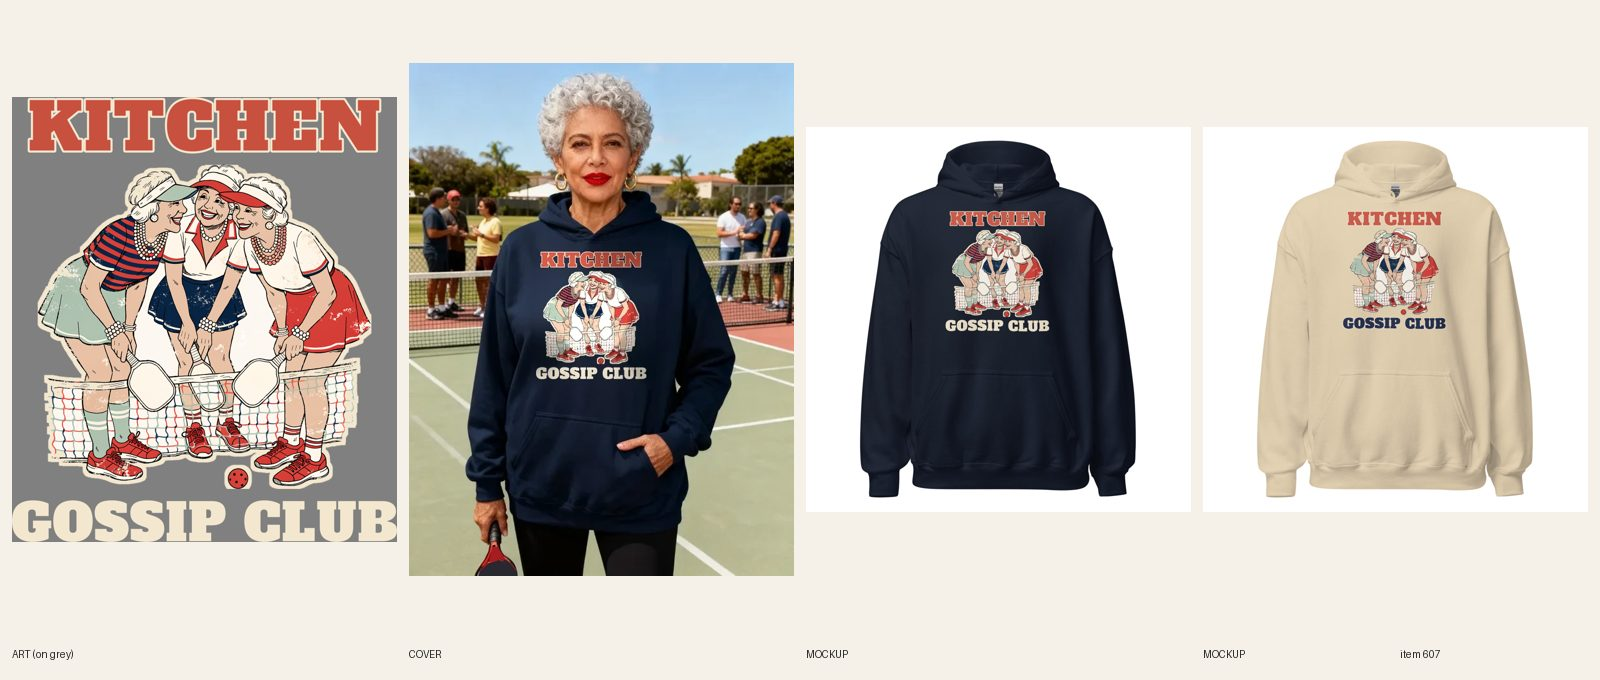
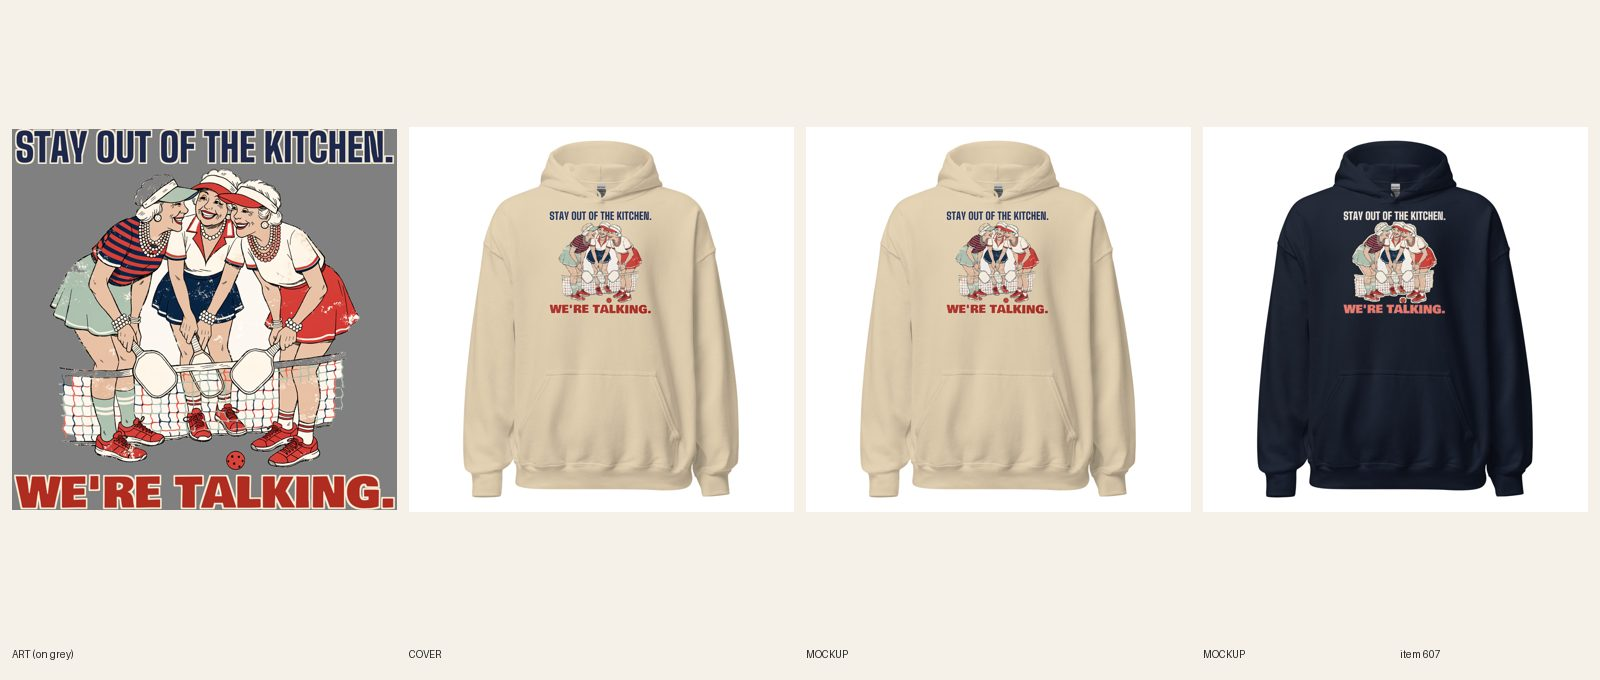
[C] review 607 (redo)
Claude-Session: https://claude.ai/code/session_01CCHcDj8LcJJ8qUPtKE3cvn

diff --git a/designs/c607/make.py b/designs/c607/make.py
@@ -1,0 +1,11 @@
+import sys; sys.path.insert(0,'.')
+from designs.lib import *
+def getart(src,y0,y1):
+    im=Image.open(src).convert('RGBA'); a=im.crop((0,y0,im.width,y1)); a=a.crop(a.getbbox()); return a.resize((int(a.width*0.94),int(a.height*0.94)),Image.LANCZOS)
+ARTS={'sand':getart('docs/print-files/607-pickleball-hoodie-sand.png',558,3356),'navy':getart('docs/print-files/607-pickleball-hoodie-navy.png',586,3384)}
+W=3359
+NAVY=(30,40,76,255); RED=(206,70,52,255); DRED=(176,44,32,255)
+for tag,c1,k1,c2,k2,bg in (('sand',NAVY,CREAM,DRED,CREAM,(214,196,160,255)),('navy',CREAM,NAVY,(244,120,100,255),NAVY,(38,50,88,255))):
+    h1=line("STAY OUT OF THE KITCHEN.",'big',0.985,W,c1,k1,kw=27); h2=line("WE'RE TALKING.",'bowlby',0.985,W,c2,k2,kw=29)
+    print(tag,'headline px',h1.width,'punch px',h2.width,'heights',h1.height,h2.height,'art',ARTS[tag].size)
+    art=ARTS[tag]; out=lockup(art,W,[h1],[h2],f'607-v2-talking-{tag}',{tag:bg}); print(out.size,out.height/out.width)

diff --git a/docs/pipeline/607-pickleball-hoodie-kitchen-gossip-club.md b/docs/pipeline/607-pickleball-hoodie-kitchen-gossip-club.md
@@ -1,4 +1,4 @@
-status: BUILDING [C] 2026-10-20 09:52
+status: REVIEW
 shopify: gid://shopify/Product/15364905238832
 lane: C
 type: new
@@ -35,3 +35,4 @@ kd: 38
 - 2026-10-18 09:10 UTC builder [C]: REDO done without fal (cap reached): cover racket repainted as a solid-face graphite paddle with red rim (throat and string bed filled, checked at 500% crop, hand/grip unchanged), cover file replaced in place; docs/review/607.jpg remade. fal \$0.
 - 2026-10-18 09:22 UTC director: LIVE. approved from docs/review/607.jpg (REDO fixed: cover paddle is a solid pickleball paddle at her side). ACTIVE + Online Store/Headless/Google & YouTube, audit --handle PASS (0 warn).
 - 2026-10-18 17:22 UTC director: QUALITY RESET grade C (new line + type), REDO. The product stays ACTIVE (same handle, URL, title keyword). 1. Line (R3.12, quality-reset 'Lines'): "Kitchen / Gossip Club": Pickleball insider pun (kitchen) that mostly describes the picture. Write 5 candidates, keep the one a stranger laughs at in 3 seconds without backstory; kill lines that only describe the picture; if none of the 5 is funny, PARK it. 2. Quality reset type bar (docs/backlog/quality-reset.md, 'The new bar'): headline at least 90% of the art width, heavy, colors pulled from the art; second line at least 45% of the headline's height, never a thin script on a dark or mid garment; use the lettering as a shape (arch, stacked lockup, words breaking into the art), not a plain bar above and a script line below; no font used on more than 1 in 6 of the last 30 designs. 3. Keep the art if it carries the new line, else one new illustration (R4/R5). New print means a new cover per R6.10, copy line one rewritten for the new joke (R8.3), and a fresh review sheet (R7.7). While quality-reset.md says PAUSED, only lane A builds, and only the samples step 2 names.
+- 2026-10-20 09:58 UTC builder [C]: REDO new line + type (grade C; title card 7i done). 5 candidates, compared with Plot Twist: I Stayed In, Oops. Anyway. and Politely, No.: "STAY OUT OF THE KITCHEN. / WE'RE TALKING." (kept: the pickleball rule turned into a gossip alibi; the huddle over the net is the proof, and a non-player still gets the first line), "KITCHEN GOSSIP CLUB" (old insider pun), "WE CAME TO PLAY. WE STAYED TO TALK.", "SERVE. SIP. REPEAT.", "THE REAL GAME IS AT THE NET". Same three-friends art at 94% (each color keeps its own art file: the Navy art has the cream keyline). Measured ink widths (card 7h): headline STAY OUT OF THE KITCHEN. 3305 px / punch WE'RE TALKING. 3322 px (100.5%; punch also taller, 312 vs 308 px). Big Shoulders Display Black headline, Bowlby One punch. Light-file (R5.3.8): Sand file 1090287555 (headline navy with a cream keyline, punch dark red), Navy file 1090287613 (headline cream with a navy keyline, punch coral); docs/print-files/607-v2-talking-sand.png / -navy.png; print 3359 x 3322, FW 1500 TOP 0 (about 1,480 px), 12/12 relinked (verified on the API). 2 fronts replaced in place, read at phone size (the long first line is the smaller of the two; it still reads). Title set to "Women's Pickleball – Stay Out of the Kitchen, We're Talking Hoodie" (handle unchanged); copy, FAQ and SEO rewritten. Handle in retired-covers.json. Plain product shot. fal $0.

diff --git a/docs/intake-log.md b/docs/intake-log.md
@@ -25,6 +25,7 @@ RUNNING lane B since 2026-10-20 09:02 UTC
 2026-10-20 07:44 UTC — [B] Builder run: REDO round 3 of #455 Unisex Hanukkah Lost My Gelt crewneck (dreidel face marks painted out, Navy file 1090236634 + Sport Grey file 1090236680, FW 1650 TOP 0, 12/12 relinked, 2 fronts replaced in place) and #469 Women's Christmas embroidered crewneck (new line BOOKED / THROUGH JANUARY., headline 2197 / punch 2197 px, Sand file 1090237592 + Navy file 1090237605, 12/12 synced, title/SEO/copy/alts updated). Both REVIEW. #498 left for director (R3.14 note). fal $0.
 2026-10-20 08:00 UTC — [E] Builder run: redid #608 Women's Pickleball tee (line + type: POLITE SMILE. / PERSONAL VENDETTA., same serene-lady art, Bevan, dark-ink file on 5 light colors, 30/30 synced). REVIEW. fal $0.
 RUNNING lane C since 2026-10-20 07:00 UTC
+2026-10-20 09:58 UTC — [C] Builder run: redid #607 Women's Pickleball hoodie (new line + type: STAY OUT OF THE KITCHEN. / WE'RE TALKING., headline 3305 px / punch 3322 px, Big Shoulders + Bowlby, same three-friends art, Sand file 1090287555 + Navy file 1090287613, FW 1500 TOP 0, 12/12 relinked, 2 fronts replaced in place, title + copy + SEO updated). REVIEW. fal $0.
 2026-10-20 09:52 UTC — [C] Builder run: redid #626 Women's Softball Mom zip hoodie (twin of #535: TRAVEL BALL: / PAY TO SUNBURN., new camp-chair art, Ash file 1090285645 + Navy file 1090285675, chest 1090285470, BW 1650 BT 225, 12/12 relinked, back mockups replaced, title + copy + SEO updated). REVIEW. fal $0.
 2026-10-20 09:46 UTC — [C] Builder run: redid #571 Women's Teacher zip hoodie (new line + type: IT'S RAINING. / SEND COFFEE., headline 2980 px / punch 3042 px, Big Shoulders + Bowlby, same apple art, Ash file 1090283743 + Navy file 1090283769, BW 1650 BT 225, 12/12 relinked, back mockups replaced, title + copy + SEO updated). REVIEW. fal $0.
 2026-10-20 09:42 UTC — [C] Builder run: redid #528 Unisex Running zip hoodie (new line + type: ON MY WAY. / EVENTUALLY., headline 3482 px / punch 3535 px, Bowlby + Alfa, same snail art, Ash file 1090281314 + White file 1090281353, BW 1650 BT 225, 12/12 relinked, back mockups replaced, title + copy + SEO updated). REVIEW. fal $0.
